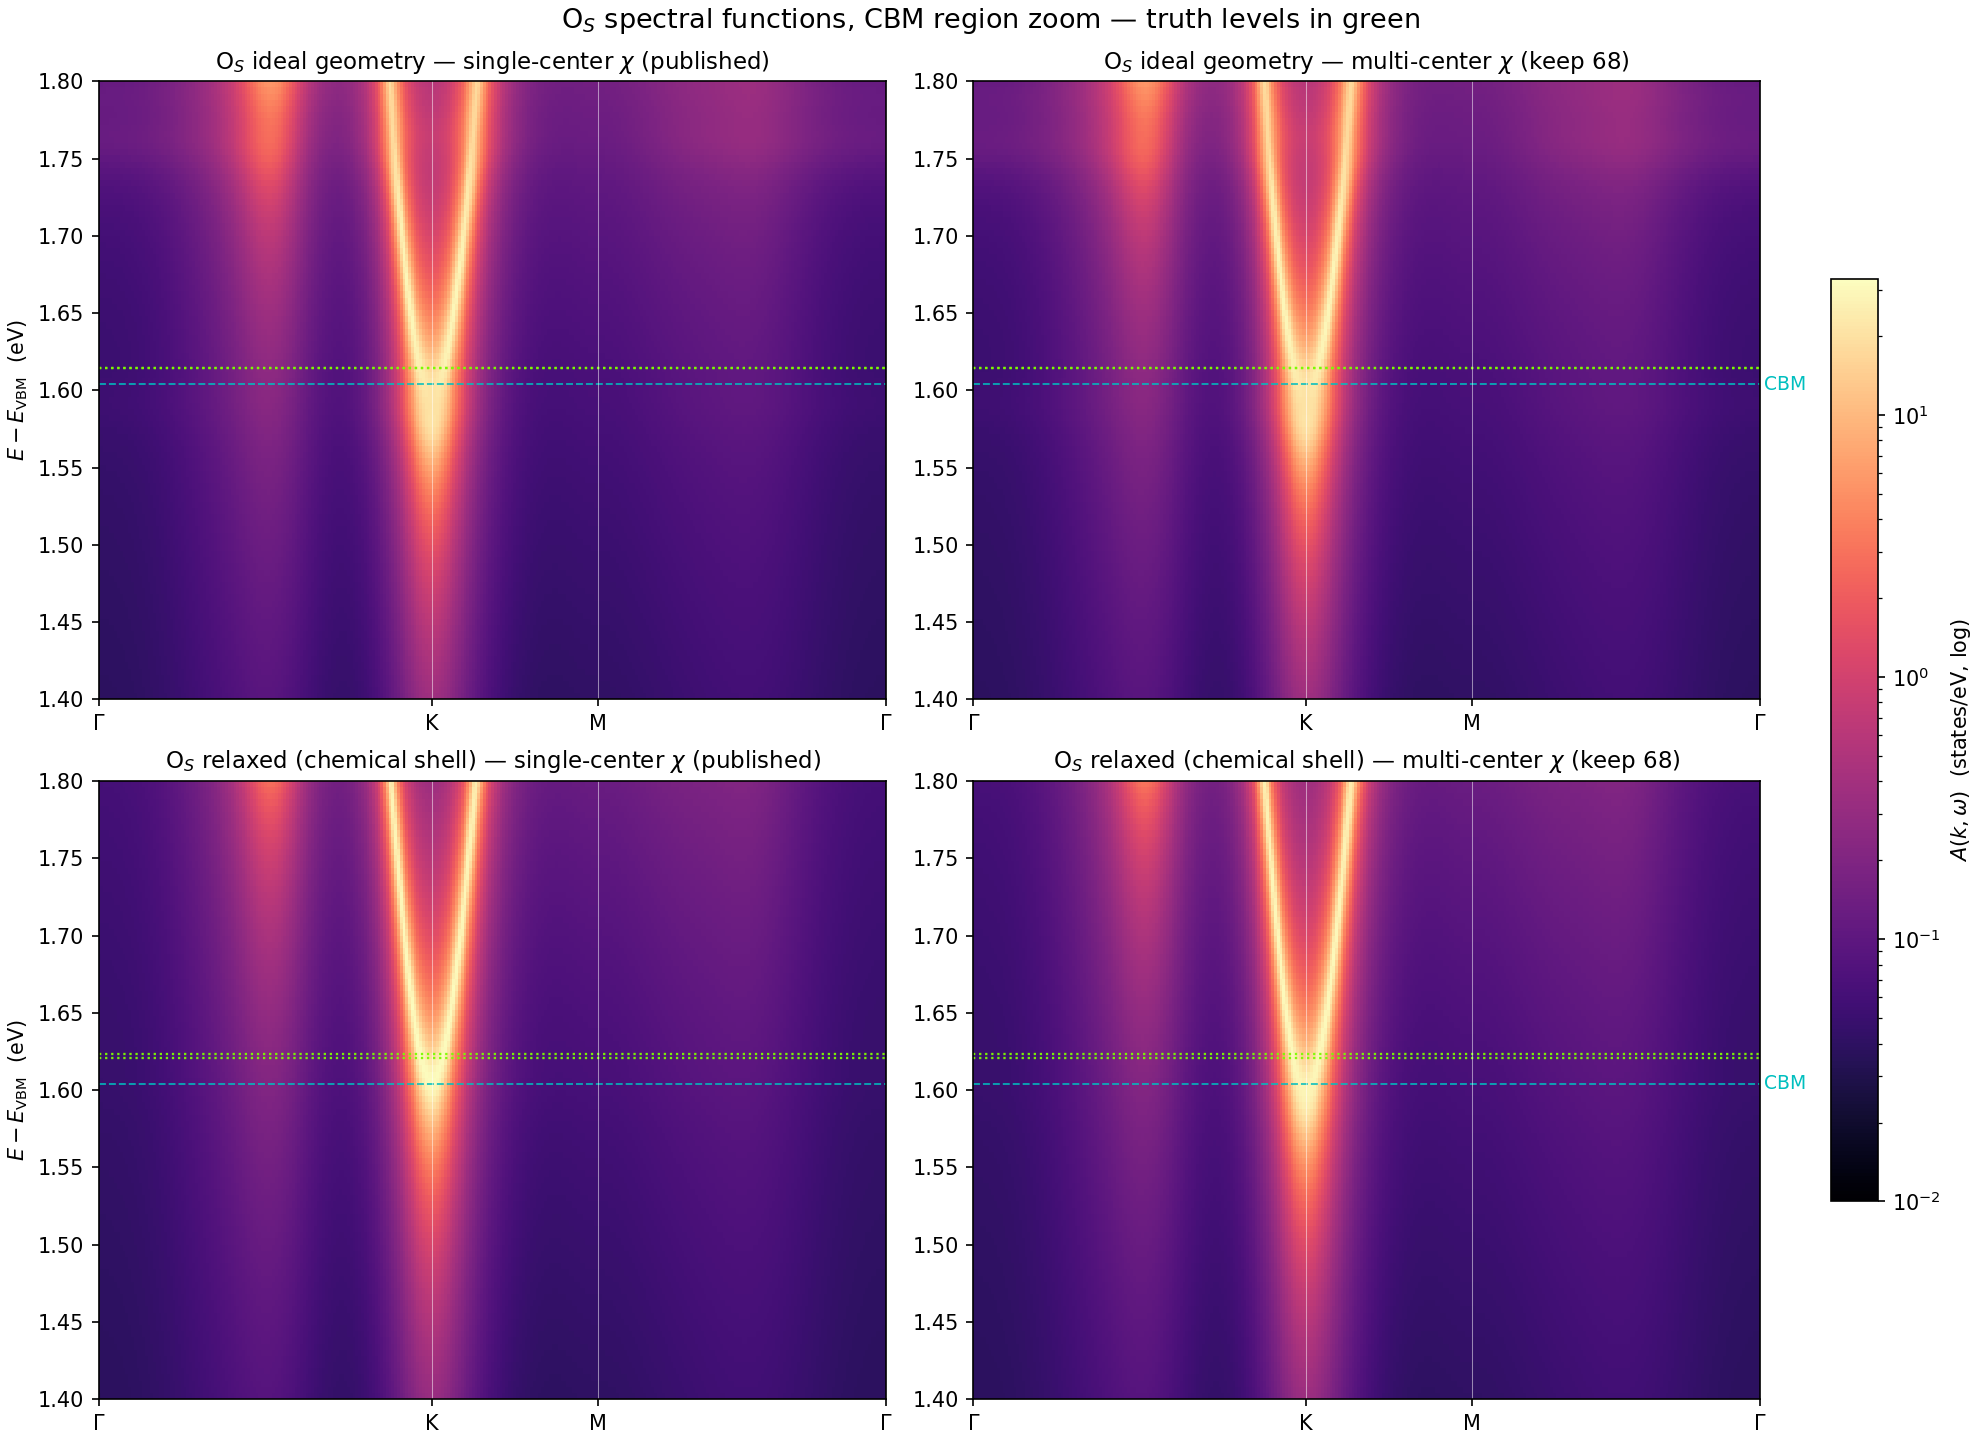
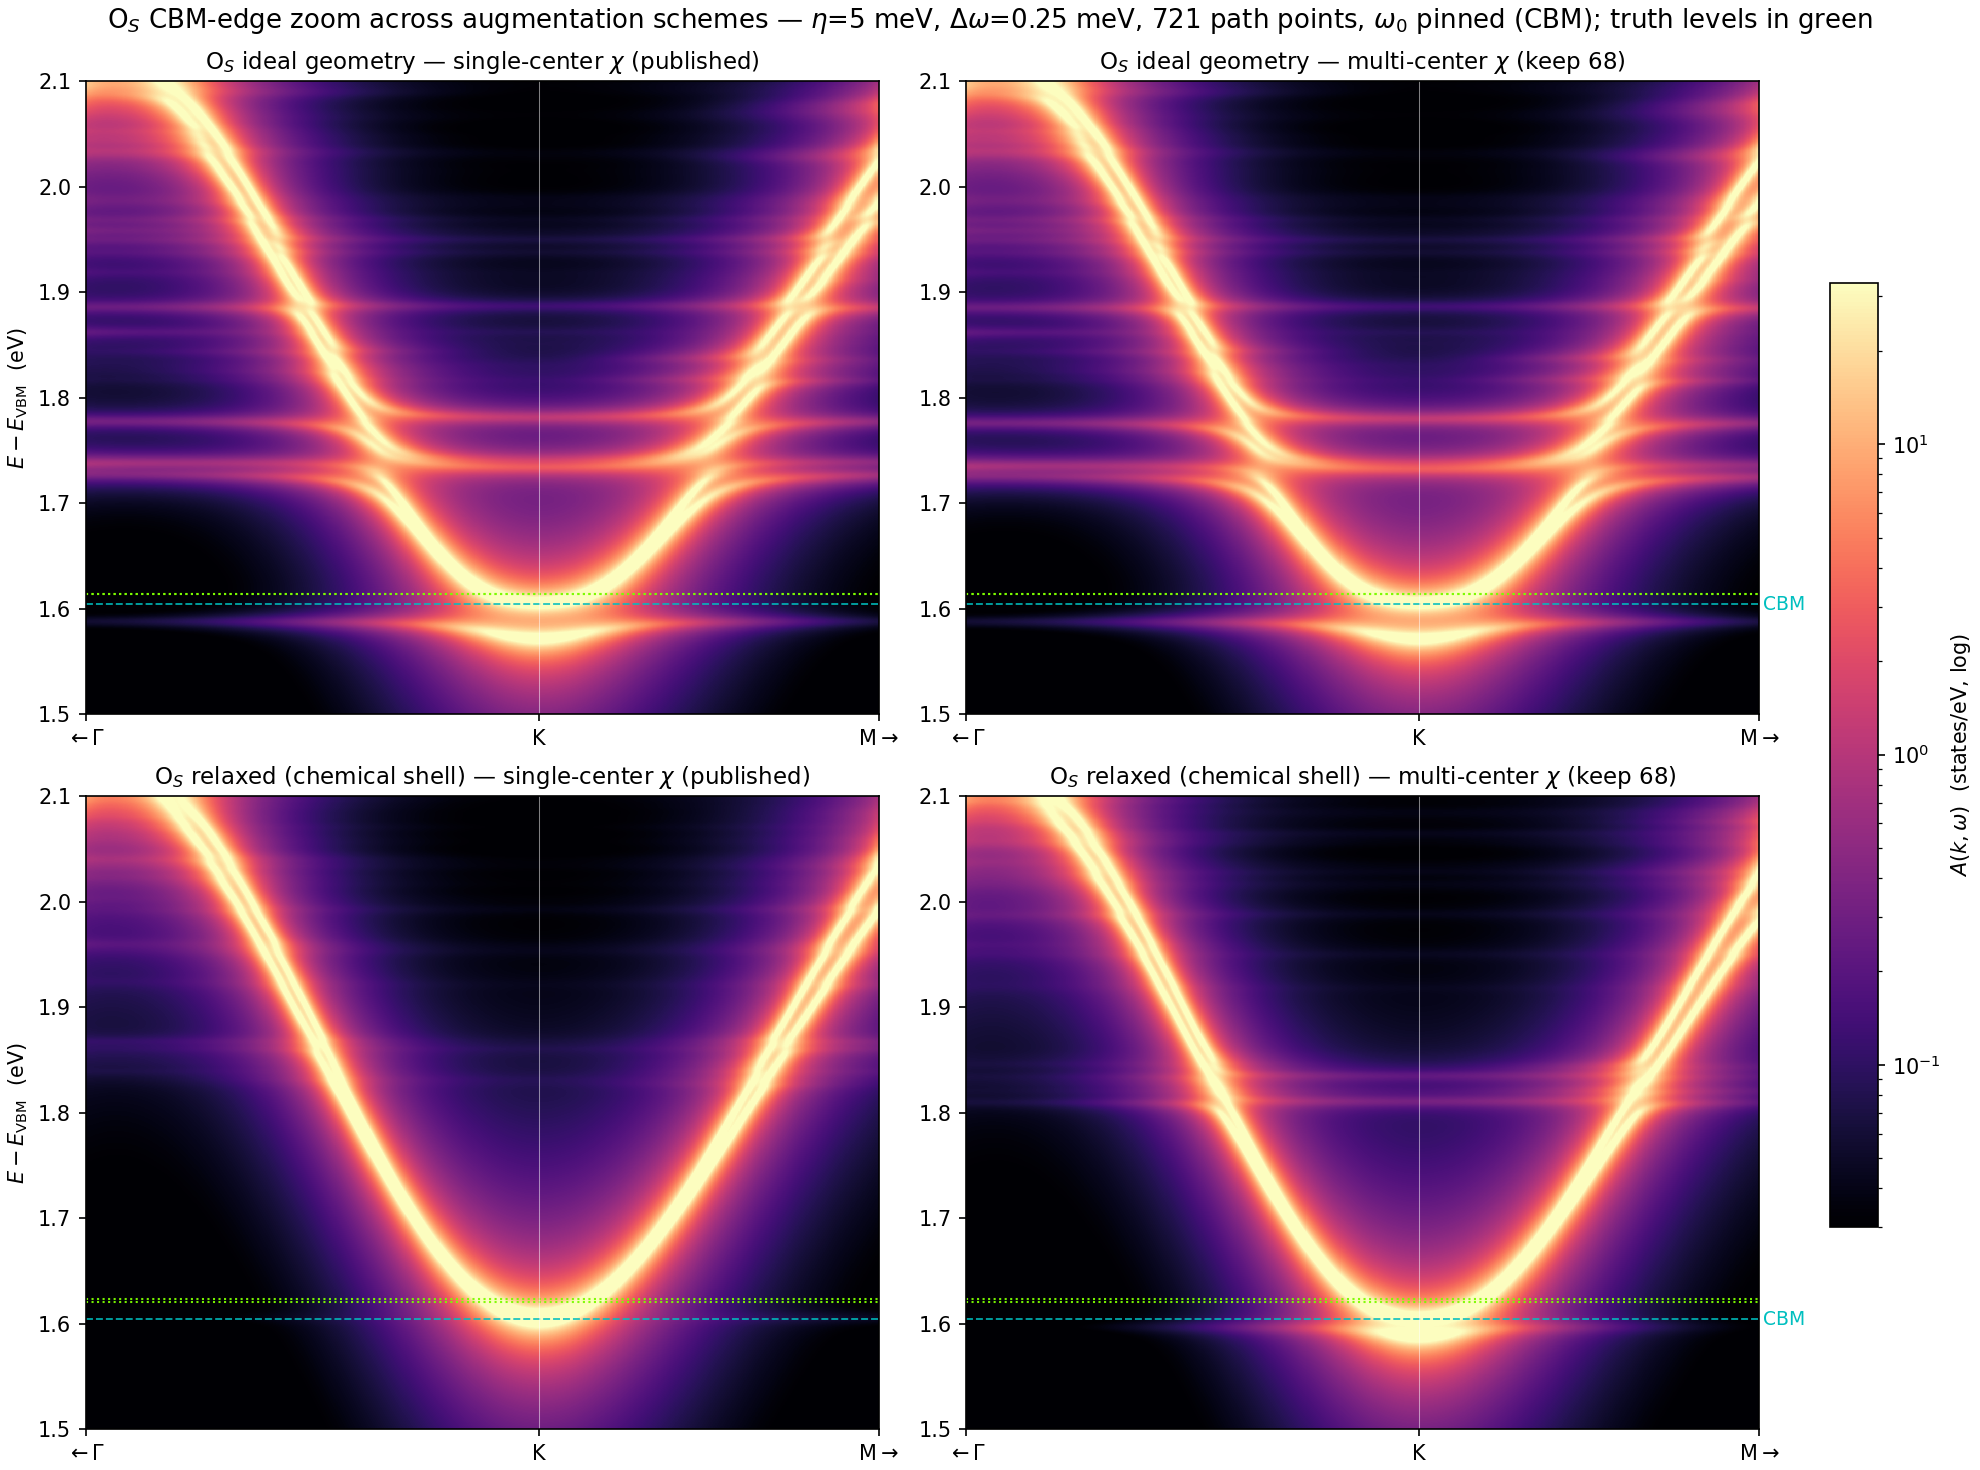
relaxation §7: zoom figures redone at the SOC-page protocol (η=5 meV, Δω=0.25 meV, 721 pts, ω0 pinned; computed on Anvil) + V_S in-gap window

diff --git a/docs/pages/relaxation.html b/docs/pages/relaxation.html
@@ -110,11 +110,11 @@
 <figure><img src="../assets/os_schemes.png" alt="O_S spectral functions across augmentation schemes" style="width:100%;max-width:1400px">
 <figcaption>O$_S$ across schemes, truth guides in green. Top row: the two ideal-geometry panels are identical &mdash; and both draw the CBM resonance 27&nbsp;meV below its true position, the pre-existing single-center signature. Bottom left (relaxed, single-center): the occupied O-2$p$ weight is drawn at +0.006/+0.106 with a 100&nbsp;meV splitting (truth: +0.036/+0.055, 20&nbsp;meV) &mdash; above truth. Bottom right (relaxed, multi-center keep&nbsp;68): the pair collapses to $-$0.007/+0.004 &mdash; below truth. The two schemes bracket the truth guides from opposite sides.</figcaption></figure>
 <figure><img src="../assets/os_zoom_vbm.png" alt="O_S VBM zoom" style="width:100%;max-width:1400px"><img src="../assets/os_zoom_cbm.png" alt="O_S CBM zoom" style="width:100%;max-width:1400px">
-<figcaption><strong>O$_S$ zooms.</strong> VBM window (top): the two-sided bracketing made visible &mdash; single-center puts the O-2$p$ weight above the green guides ($\Gamma$-region blobs at +0.10&ndash;0.13&nbsp;eV), multi-center collapses it below them onto the VBM edge. CBM window (bottom): the localized resonance (both schemes) sits just below the guides at 1.614&ndash;1.623&nbsp;eV &mdash; the $\sim$27&nbsp;meV pre-existing signature, insensitive to the $\chi$ set.</figcaption></figure>
+<figcaption><strong>O$_S$ zooms, at the SOC-page protocol</strong> ($\eta$=5&nbsp;meV, $\Delta\omega$=0.25&nbsp;meV, 721 points, $\omega_0$ pinned per window). VBM window (top): the two-sided bracketing at full sharpness &mdash; single-center draws the O-2$p$ flat lines above the green guides, multi-center collapses them below onto the VBM edge. CBM window (bottom): the K-concentrated resonance and the in-conduction ladder with its avoided crossings (the SOC-page O$_S$ signature), sitting just below the truth guides at 1.614&ndash;1.623&nbsp;eV in both schemes &mdash; the $\sim$27&nbsp;meV pre-existing offset, insensitive to the $\chi$ set.</figcaption></figure>
 <figure><img src="../assets/ses_schemes.png" alt="Se_S spectral functions across augmentation schemes" style="width:100%;max-width:1400px">
 <figcaption>Se$_S$ across schemes: all four panels are indistinguishable, and every feature hugs its truth guide &mdash; the null result of the campaign, now in spectral form under every augmentation treatment.</figcaption></figure>
 <figure><img src="../assets/ses_zoom_vbm.png" alt="Se_S VBM zoom" style="width:100%;max-width:1400px"><img src="../assets/ses_zoom_cbm.png" alt="Se_S CBM zoom" style="width:100%;max-width:1400px">
-<figcaption><strong>Se$_S$ zooms.</strong> Even at the band edges &mdash; where all the Se$_S$ physics lives &mdash; the four panels track the truth guides to within $\sim$10&ndash;20&nbsp;meV in both windows, under either $\chi$ treatment and at both geometries. The benign defect stays benign at every magnification.</figcaption></figure>
+<figcaption><strong>Se$_S$ zooms, at the SOC-page protocol</strong> ($\eta$=5&nbsp;meV, $\Delta\omega$=0.25&nbsp;meV, 721 points, $\omega_0$ pinned per window). Even at 5&nbsp;meV resolution the four panels track the truth guides to within $\sim$10&ndash;20&nbsp;meV in both windows, under either $\chi$ treatment and at both geometries &mdash; the benign defect stays benign at every magnification.</figcaption></figure>
 <p><strong>The spectral pin (SPEC_W0).</strong> The spectral-function pipeline is two-tier: a static L&ouml;wdin fold of everything outside the active window &mdash; including the $\chi$ block &mdash; pinned at a reference energy $W_0$ (default: the VBM), then fully dynamical Dyson per $\omega$ inside the window. Measured on relaxed-V$_S$ (keep&nbsp;60): moving the pin VBM&rarr;CBM shifts the $e$-manifold resonance by $\sim$30&nbsp;meV (1.198/1.246 &rarr; 1.170/1.214; the pin-free diagonalization sits at 1.174/1.222). The driver is the $\chi$ directions inside the folded space &mdash; energetically close to the window &mdash; so the sensitivity appears only in augmented runs. Rules adopted: quantitative level positions are read from the pin-free diagonalization; spectral-map features far from the pin carry a $\pm$30&nbsp;meV placement systematic (re-pin via <code>SPEC_W0</code> when a specific feature matters). All calibration ladders on this page are diagonalization-based and unaffected.</p>
 <p><strong>Verdict, in three layers.</strong> (i) The displacement-specific inflation &mdash; the 210&nbsp;meV by which the relaxed no-aug overshoot exceeds the ideal one &mdash; is <strong>$\sim$83% removed</strong>: displaced-neighbor $\chi$ does what it was built for, and the ladder saturates by keep&nbsp;60 (keep&nbsp;76 adds 1&nbsp;meV). (ii) The residual shift error ($\sim$+33&nbsp;meV) traces to the <em>vacancy-intrinsic</em> deficiency present in both arms: the $a_1$ state, concentrated in the void, barely responds to neighbor $\chi$ (+133&nbsp;&rarr;&nbsp;+124&nbsp;meV overshoot). (iii) Two structural facts, learned the hard way and now load-bearing: <em>Bloch-sum augmentation cannot distinguish centers that are primitive-lattice translates</em> (the 144-k structure already supplies per-cell resolution &mdash; one center per inequivalent site; the ideal-geometry 10-center attempt is exactly singular), and by the same theorem, <em>"$\chi$ at the vacancy site" is already implicit</em> whenever any same-species center sits on that primitive site &mdash; the void state's stubbornness is not a coverage gap but a statement that it is not atomic-$\chi$-shaped. A more diffuse ghost (Se radials at the vacancy, <code>aug_ghost_species</code>) recovers 24&nbsp;meV of the $a_1$ overshoot and 2&nbsp;meV of the $e$-pair &mdash; diminishing returns that mark the practical boundary of A1-form augmentation. The supercell truth gate remains the standing rule for relaxed-geometry defect levels.</p>
 <p class="small">Ops footnote: the SCF also settled the hybrid-layout question &mdash; single-node 56&nbsp;MPI&nbsp;&times;&nbsp;4&nbsp;OMP beats flat 224&nbsp;MPI by 18% (1h13m vs 1h29m), while 2-node pw.x is 10&ndash;15&times; slower per iteration (&Gamma;-point FFT all-to-all across the fabric) and is now banned for supercell SCF; EDI itself is fine on 2 nodes (k-pair pools): 737&nbsp;s at 48 pools vs 3136&nbsp;s at 4. Artifacts: <code>~/mos2_soc/sc/Sdisp</code>, <code>~/mos2_soc/edi_disp</code> (edmat 6.5&nbsp;GB, <code>spec/spectral_path.npz</code>), figures <code>post/plot_sdisp_levels.py</code>, <code>post/plot_spectral_path.py</code>.</p>
